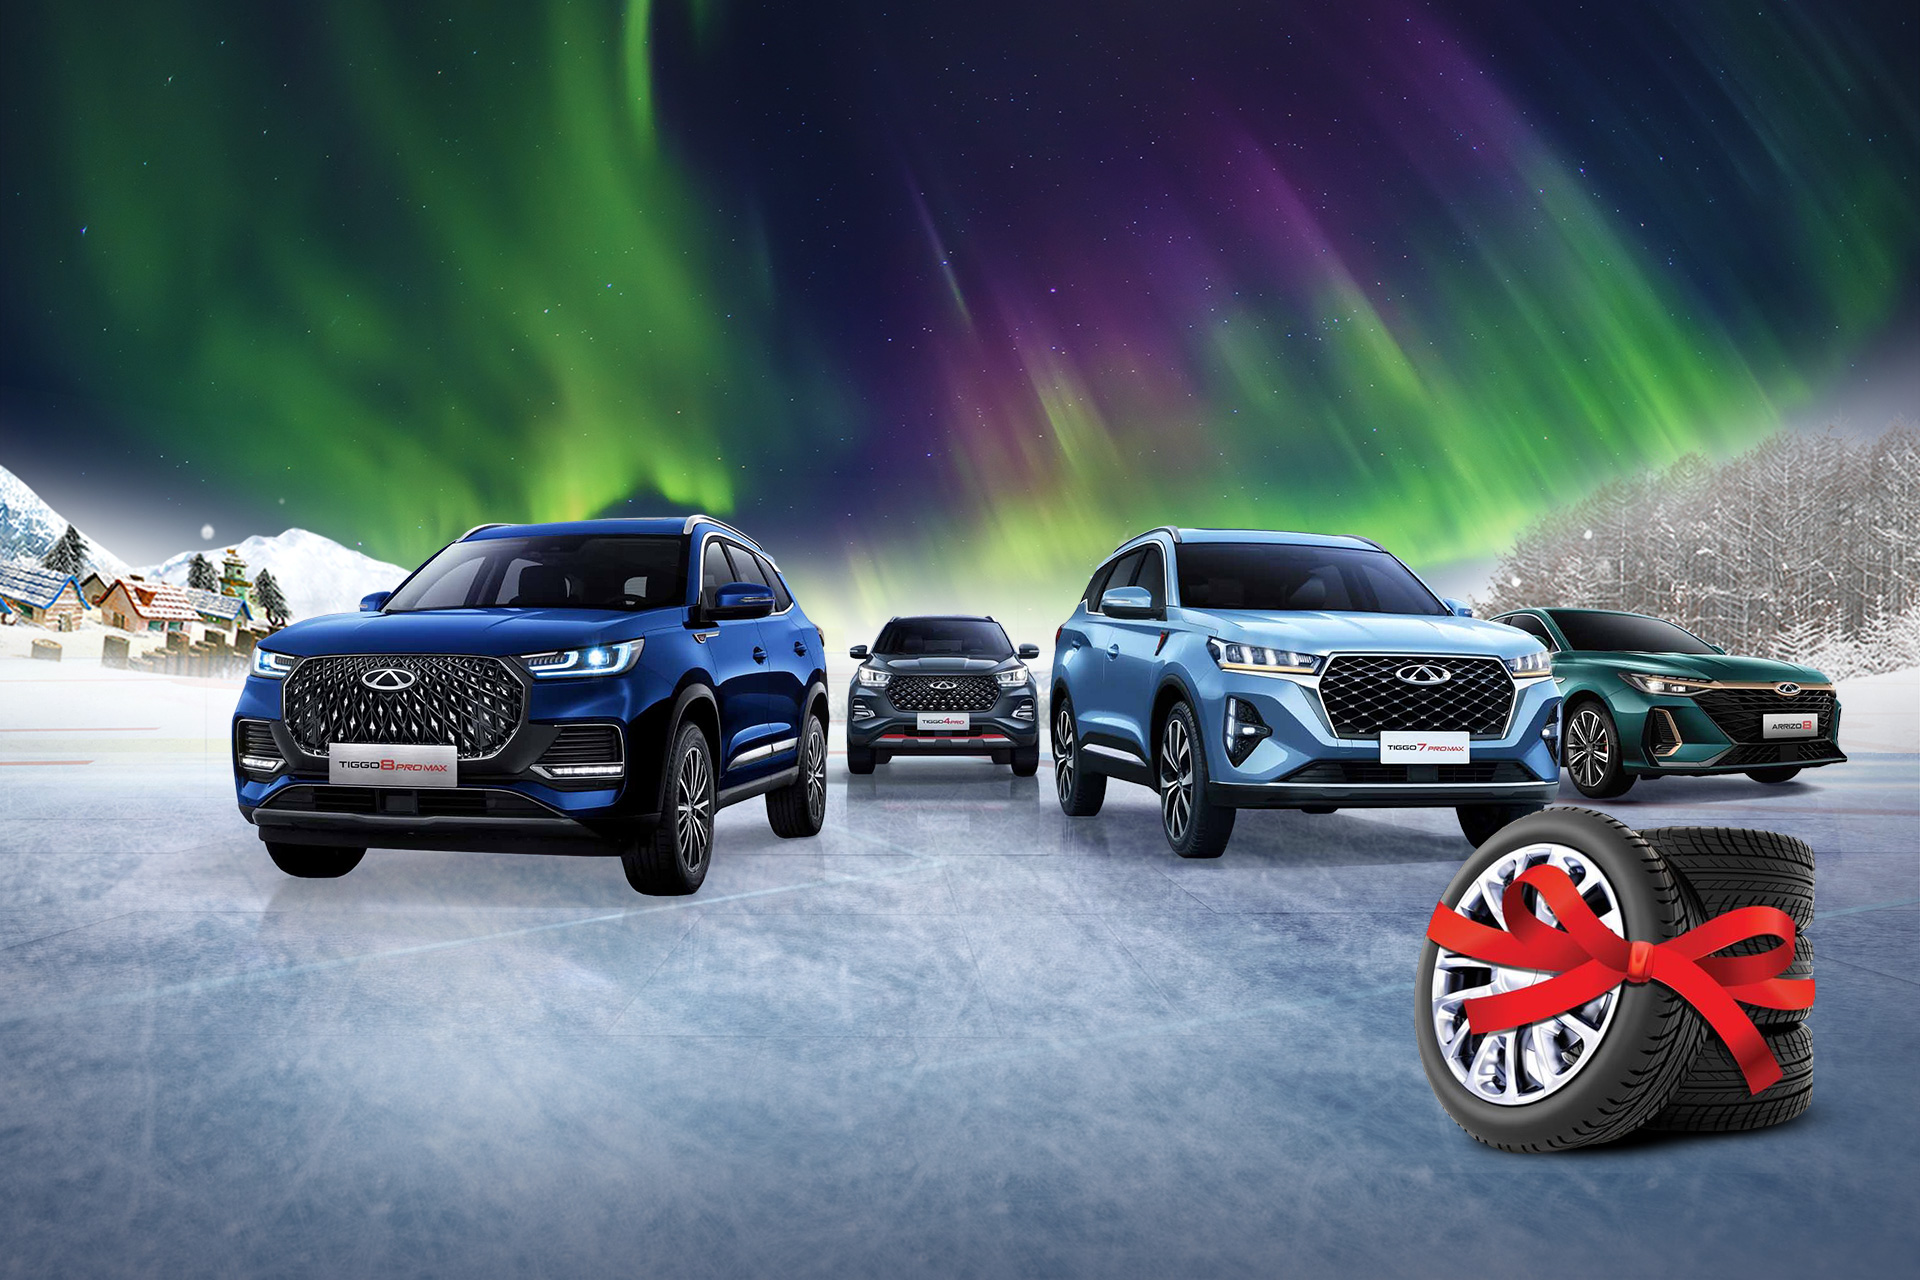
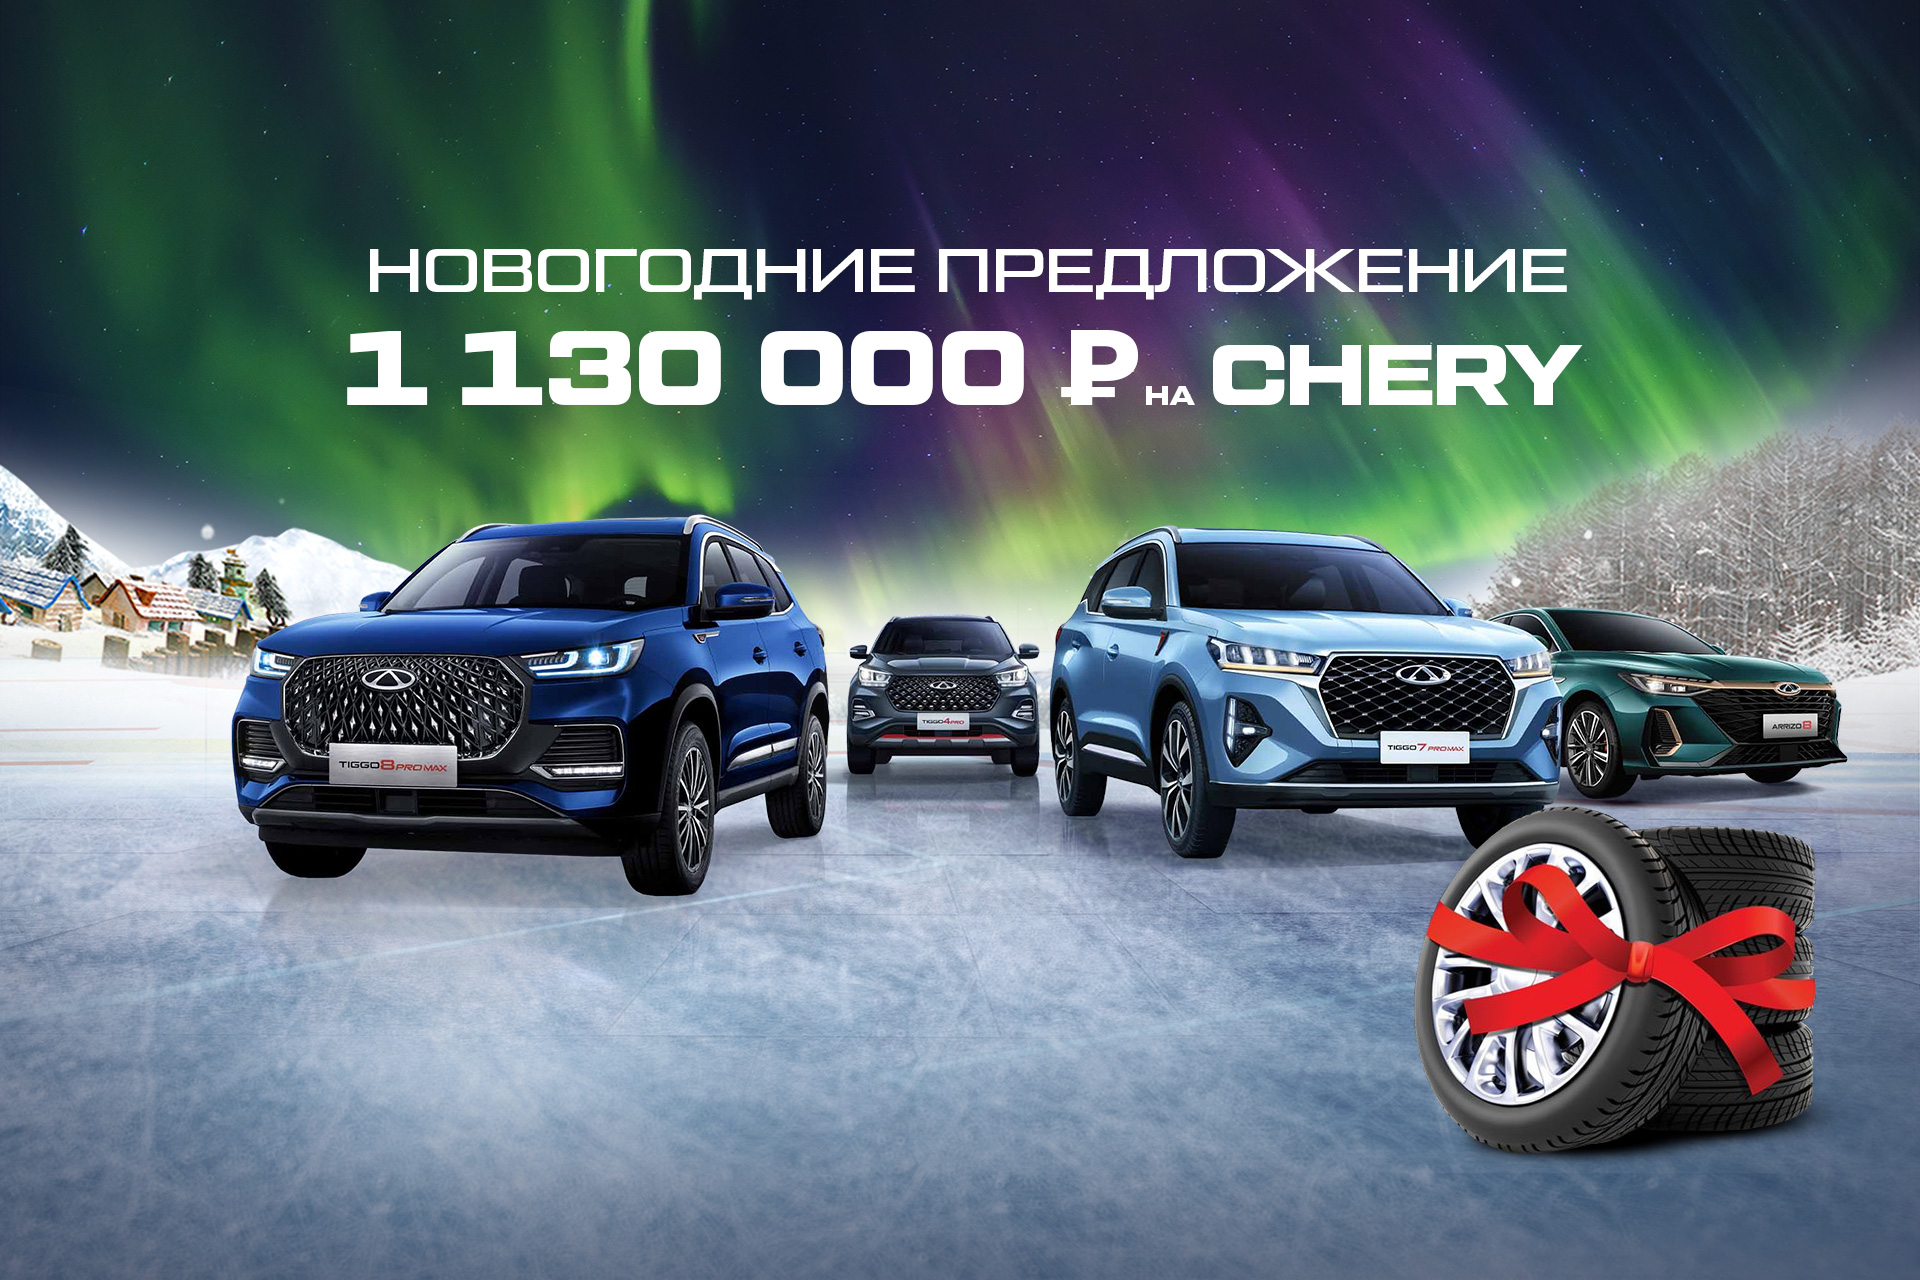
Замена баннера

Changed region(s): [[0.1875, 0.1875, 0.8438, 0.3438]]

diff --git a/index.php b/index.php
@@ -132,10 +132,10 @@
                         <?= $slide['text'] ?>
                     </div>
                     <div class="info-banner">
-                        <div class="main-title">
+                        <!-- <div class="main-title">
                             <p>выгода 1&nbsp;130&nbsp;000&nbsp;₽ на CHERY</p>
-                            <!-- <p>Выгода до <span style="color: #b91b23"class="title_benefit">1&nbsp;000&nbsp;000 ₽</span></p> -->
-                        </div>
+                            <p>Выгода до <span style="color: #b91b23"class="title_benefit">1&nbsp;000&nbsp;000 ₽</span></p>
+                        </div> -->
                         <form class="form form-banner" novalidate="">
                             <div class="wrap">
                                 <div class="form-group">

diff --git a/content/slides.php b/content/slides.php
@@ -31,11 +31,11 @@ $slides = array(
         'image' => 'chery_winter_1920x1280.jpg',
         'image-mobile' => 'chery_winter_1920x1280.jpg',
         'utm' => '',
-        'text' => '<div class="column">
-                        <div>
-                            <p class="title" style="margin-bottom:5px;">новогоднее предложение</p>
-                        </div>
-                    </div>'
+        // 'text' => '<div class="column">
+        //                 <div>
+        //                     <p class="title" style="margin-bottom:5px;">новогоднее предложение</p>
+        //                 </div>
+        //             </div>'
     )
 );
 
